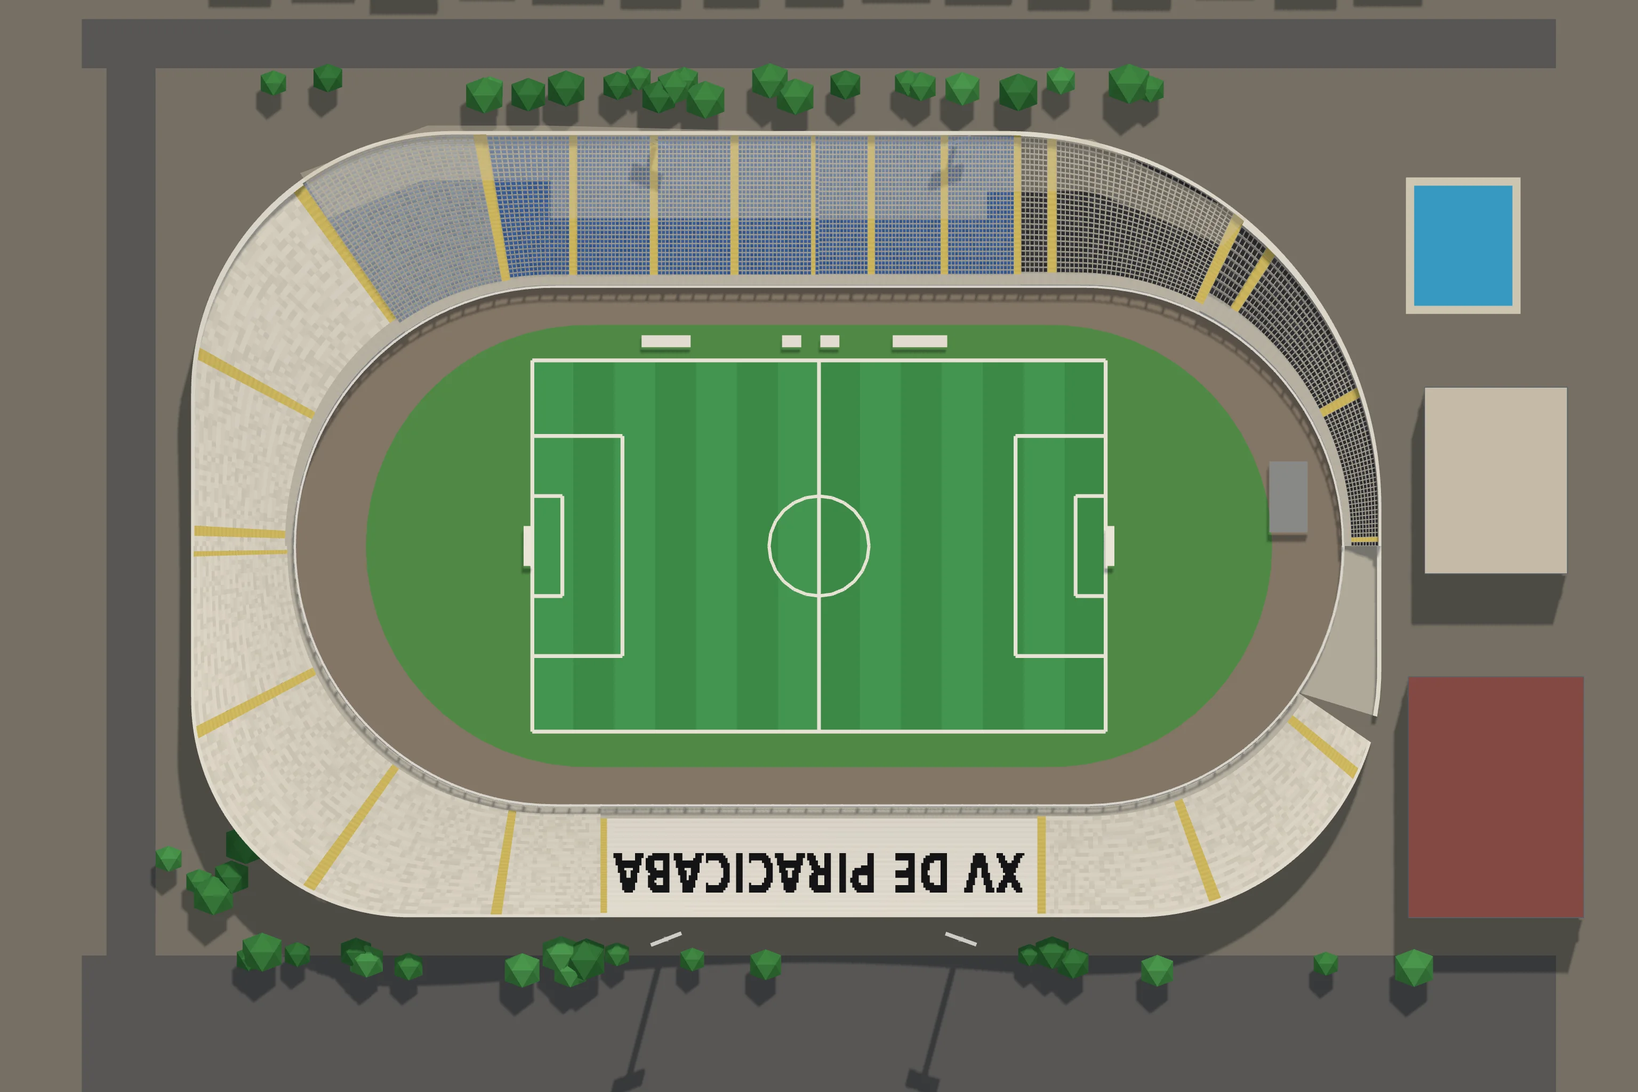
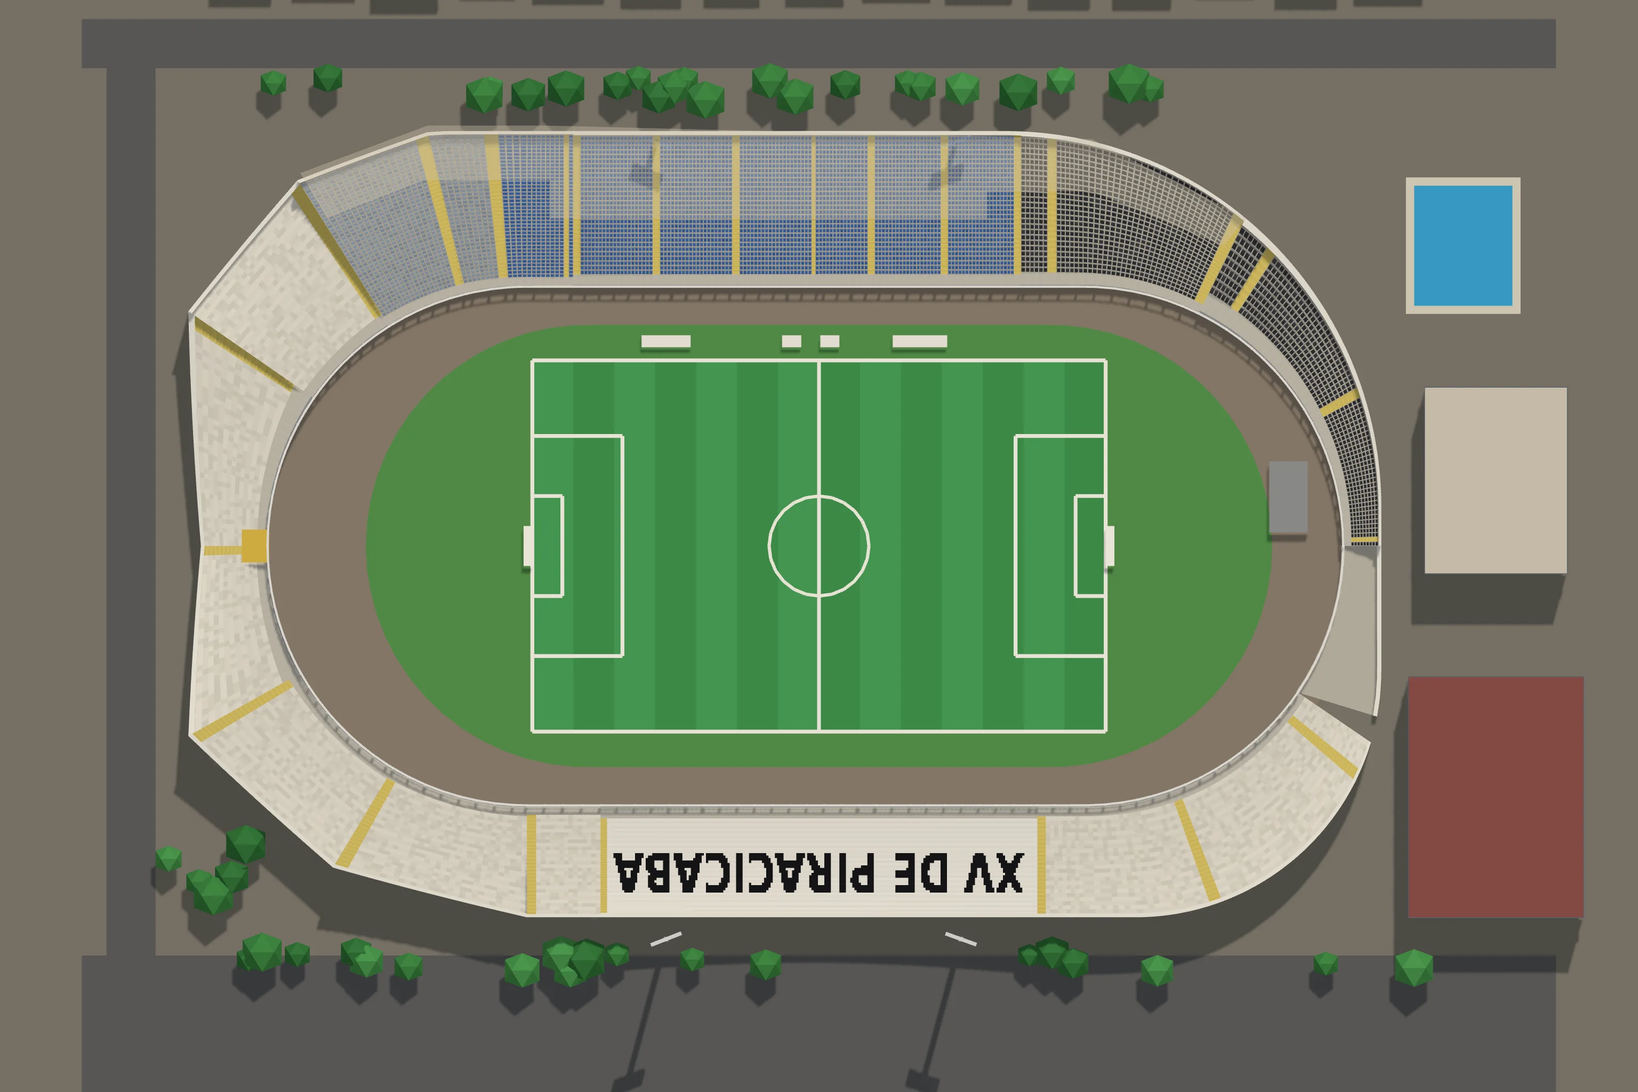
Barão de Serra Negra corrigido pelas fotos do dono: o muro de trás do gol sul reto, a arquibancada baixa no meio e alta nos dois cantos
Claude-Session: https://claude.ai/code/session_019hwwMAyyP7ZAvyq6wYTetr

Changed region(s): [[0.0938, 0.125, 0.5, 0.9062]]

diff --git a/cenario3d/dados/estadios_cenas.js b/cenario3d/dados/estadios_cenas.js
@@ -11444,8 +11444,8 @@ window.__ESTADIOS = {
    "visitante": 3
   },
   "foto": {
-   "imagem": "img/cenas/estadio_barao_de_serra_negra.webp?v=873eb81a",
-   "mascara": "384;384;384;384;384;384;384;384;384;384;384;384;384;384;384;384;384;384;384;384;384;384;384;384;384;384;384;384;384;384;384;102,137,145;94,155,135;90,165,129;87,172,125;84,178,122;82,183,119;79,189,116;78,192,114;76,196,112;74,201,109;72,205,107;71,207,106;70,210,104;68,214,102;67,216,101;66,219,99;65,221,98;64,224,96;63,226,95;62,228,94;61,231,92;60,233,91;59,235,90;58,237,89;58,238,88;57,240,87;56,242,86;56,243,85;55,245,84;54,247,83;54,248,82;53,250,81;53,250,81;52,252,80;52,253,79;51,108,66,81,78;51,68,146,42,77;50,65,154,38,77;50,61,162,35,76;49,59,168,33,75;49,57,172,31,75;49,55,176,30,74;48,54,180,29,73;48,52,184,27,73;48,50,188,26,72;48,49,190,25,72;47,48,194,24,71;47,47,196,23,71;47,45,200,22,70;47,44,202,21,70;46,44,204,21,69;46,43,206,20,69;46,42,208,20,68;46,41,210,19,68;46,40,212,19,67;46,39,214,18,67;46,38,216,17,67;46,37,218,17,66;46,36,220,16,66;46,35,222,15,66;46,35,222,16,65;46,34,224,15,65;46,33,226,14,65;46,33,226,15,64;46,32,228,14,64;46,31,230,13,64;46,31,230,13,64;46,30,232,13,63;46,30,232,13,63;46,29,234,12,63;46,29,234,12,63;46,28,236,12,62;46,28,236,12,62;46,27,238,11,62;46,27,238,11,62;46,26,240,10,62;46,26,240,10,62;46,26,240,10,62;46,25,242,10,61;46,25,242,10,61;46,25,242,10,61;46,24,244,9,61;46,24,244,9,61;46,24,244,9,61;46,24,244,9,61;46,23,246,8,61;46,23,246,8,61;46,23,246,8,61;46,23,246,8,61;46,23,246,8,61;46,23,246,8,61;46,23,246,8,61;46,23,246,8,61;46,22,248,7,61;46,22,248,7,61;46,22,248,7,61;46,22,248,7,61;46,22,248,7,61;46,22,248,7,61;46,22,248,7,61;46,22,248,7,61;46,23,246,8,61;46,23,246,8,61;46,23,246,8,61;46,23,246,8,61;46,23,246,8,61;46,23,246,8,61;46,23,246,8,61;46,23,246,8,61;46,24,244,9,61;46,24,244,9,61;46,24,244,9,61;46,24,244,9,61;46,25,242,10,61;46,25,242,10,61;46,25,242,10,61;46,26,240,11,61;46,26,240,11,61;46,26,240,11,61;46,27,238,12,61;46,27,238,12,61;46,28,236,13,61;46,28,236,13,61;46,29,234,14,61;46,29,234,14,61;46,30,232,15,61;46,30,232,15,61;46,31,230,16,61;46,31,230,16,61;46,32,228,17,61;46,33,226,18,61;46,33,226,18,61;46,34,224,19,61;46,35,222,20,61;46,35,222,20,61;46,36,220,20,62;46,37,218,21,62;46,38,216,22,62;46,39,214,23,62;46,40,212,24,62;46,41,210,24,63;46,42,208,25,63;46,43,206,26,63;47,43,204,27,63;47,44,202,27,64;47,45,200,28,64;47,47,196,30,64;48,47,194,30,65;48,49,190,32,65;48,50,188,32,66;49,51,184,34,66;49,53,180,35,67;49,55,176,37,67;50,56,172,38,68;50,58,168,40,68;51,60,162,42,69;51,64,154,46,69;52,67,146,49,70;52,107,66,88,71;53,260,71;54,258,72;54,257,73;55,255,74;56,254,74;56,253,75;57,251,76;58,249,77;59,247,78;60,245,79;61,243,80;62,241,81;63,238,83;64,236,84;66,232,86;67,230,87;69,226,89;70,224,90;72,220,92;74,215,95;76,211,97;79,205,100;82,199,103;86,190,108;384;384;384;384;384;384;384;384;384;384;384;384;384;384;384;384;384;384;384;384;384;384;384;384;384;384;384;384;384;384;384;384;384;384;384;384;384;384;384;384;384;384"
+   "imagem": "img/cenas/estadio_barao_de_serra_negra.webp?v=37885bc2",
+   "mascara": "384;384;384;384;384;384;384;384;384;384;384;384;384;384;384;384;384;384;384;384;384;384;384;384;384;384;384;384;384;384;384;102,137,145;94,155,135;90,165,129;87,172,125;84,178,122;82,183,119;79,189,116;78,192,114;76,196,112;74,201,109;72,205,107;71,207,106;68,212,104;66,216,102;63,220,101;61,224,99;58,228,98;56,232,96;53,236,95;51,239,94;48,244,92;46,247,91;47,247,90;48,247,89;50,246,88;52,245,87;54,244,86;56,243,85;56,244,84;55,246,83;54,248,82;53,250,81;52,251,81;52,252,80;51,254,79;50,109,66,81,78;49,64,152,42,77;48,60,161,38,77;48,57,168,35,76;47,55,174,33,75;46,54,178,31,75;45,52,183,30,74;44,51,187,29,73;44,50,190,27,73;43,49,194,26,72;42,48,197,25,72;41,48,200,24,71;40,47,203,23,71;40,46,206,22,70;39,46,208,21,70;38,46,210,21,69;38,44,213,20,69;40,41,215,20,68;44,36,217,19,68;45,34,219,19,67;45,33,221,18,67;45,33,222,17,67;45,32,224,17,66;45,31,226,16,66;45,30,228,15,66;46,28,229,16,65;46,27,231,15,65;46,27,232,14,65;46,26,233,15,64;46,25,235,14,64;46,25,236,13,64;46,24,237,13,64;46,24,238,13,63;46,23,239,13,63;46,23,240,12,63;46,22,241,12,63;46,22,242,12,62;46,21,243,12,62;46,21,244,11,62;46,20,245,11,62;46,20,246,10,62;46,20,246,10,62;46,19,247,10,62;46,19,248,10,61;47,18,248,10,61;47,17,249,10,61;47,17,250,9,61;47,17,250,9,61;47,17,250,9,61;47,16,251,9,61;47,16,252,8,61;47,16,252,8,61;47,16,252,8,61;47,16,252,8,61;47,15,253,8,61;47,15,253,8,61;47,15,253,8,61;47,15,253,8,61;48,14,254,7,61;48,14,254,7,61;48,14,254,7,61;48,14,254,7,61;48,14,254,7,61;48,14,254,7,61;48,14,254,7,61;48,14,254,7,61;47,15,253,8,61;47,15,253,8,61;47,15,253,8,61;47,15,253,8,61;47,16,252,8,61;47,16,252,8,61;47,16,252,8,61;47,16,252,8,61;47,16,251,9,61;47,17,250,9,61;47,17,250,9,61;47,17,250,9,61;46,18,249,10,61;46,19,248,10,61;46,19,248,10,61;46,19,247,11,61;46,20,246,11,61;46,20,246,11,61;46,20,245,12,61;46,21,244,12,61;46,21,243,13,61;46,22,242,13,61;46,22,241,14,61;46,23,240,14,61;46,23,239,15,61;46,24,238,15,61;46,24,237,16,61;46,25,236,16,61;45,26,235,17,61;45,27,233,18,61;45,28,232,18,61;45,28,231,19,61;44,30,229,20,61;40,35,228,20,61;39,37,226,20,62;40,37,224,21,62;41,37,222,22,62;42,36,221,23,62;43,36,219,24,62;44,36,217,24,63;45,36,215,25,63;46,36,213,26,63;47,37,210,27,63;48,37,208,27,64;49,37,206,28,64;50,37,203,30,64;51,38,200,30,65;52,38,197,32,65;53,39,194,32,66;54,40,190,34,66;55,40,187,35,67;57,40,183,37,67;58,42,178,38,68;59,43,174,40,68;60,45,168,42,69;61,47,161,46,69;62,51,152,49,70;63,96,66,88,71;64,249,71;65,247,72;66,245,73;67,243,74;65,245,74;63,246,75;61,247,76;60,247,77;63,243,78;67,238,79;70,234,80;73,230,81;77,224,83;81,219,84;84,214,86;88,209,87;92,203,89;95,199,90;99,193,92;100,189,95;99,188,97;98,186,100;97,184,103;96,180,108;384;384;384;384;384;384;384;384;384;384;384;384;384;384;384;384;384;384;384;384;384;384;384;384;384;384;384;384;384;384;384;384;384;384;384;384;384;384;384;384;384;384"
   },
   "cena": {
    "nome": "Barão de Serra Negra",
@@ -11460,7 +11460,7 @@ window.__ESTADIOS = {
      ]
     },
     "mandante2": {
-     "x": 546,
+     "x": 495,
      "y": 1024,
      "len": 130,
      "dir": [
@@ -11520,7 +11520,7 @@ window.__ESTADIOS = {
      "rot": "MANDANTE 2º ESCALÃO",
      "lado": "mandante",
      "entrada": "portao_mandante",
-     "x": 456,
+     "x": 439,
      "y": 1024
     },
     {
@@ -11647,28 +11647,28 @@ window.__ESTADIOS = {
      "id": "canto_2",
      "rot": "GRADE DO ESCANTEIO",
      "de": {
-      "x": 640,
-      "y": 746
+      "x": 658,
+      "y": 665
      },
      "ate": {
-      "x": 368,
-      "y": 661
+      "x": 381,
+      "y": 551
      },
-     "modulos": 10,
+     "modulos": 11,
      "espessura": 10
     },
     {
      "id": "canto_3",
      "rot": "GRADE DO ESCANTEIO",
      "de": {
-      "x": 640,
-      "y": 1302
+      "x": 658,
+      "y": 1383
      },
      "ate": {
-      "x": 368,
-      "y": 1387
+      "x": 452,
+      "y": 1468
      },
-     "modulos": 10,
+     "modulos": 8,
      "espessura": 10
     },
     {

diff --git a/cenario3d/planta.html b/cenario3d/planta.html
@@ -289,24 +289,24 @@ button:focus-visible, input:focus-visible { outline: 2px solid var(--selecao); o
 
 <script type="module">
 import * as THREE from 'https://cdn.jsdelivr.net/npm/three@0.160.0/build/three.module.min.js';
-import { planoDaCasa, montarCasa, juntarBlocos, lugarDoDecalque, placasDoLote, segmentosDoMuro, carrosDoEstacionamento, portaoDoEstacionamento } from './js/casas3d.js?v=2e119ea8b4';
-import { montarModelos } from './js/modelos3d.js?v=2e119ea8b4';
-import { moldeDaPeca, comTransformador } from './js/props3d.js?v=2e119ea8b4';
-import { ATLAS } from './js/modelos_atlas.js?v=2e119ea8b4';
-import { Construtor, sorteio } from './js/construtor3d.js?v=2e119ea8b4';
-import { gerarProposta, MAPAS, MAPA_DO_PORTE, RUA, LONGE_DO_ESTADIO_M, cisaoDaPraca, VAO_CIDADES_M, PRAIA_A_MAIS } from './js/proposta.js?v=2e119ea8b4';
-import { montarSede, nivelQueCabe } from './js/sede3d.js?v=2e119ea8b4';
-import { onibus as onibusDetalhe, juntar as juntarDetalhe } from './js/detalhe3d.js?v=2e119ea8b4';
-import { montarLoteDeVeraneio, plantaDoLote, festaNoMundo, noMundoDoLote, cenaDaFesta, detalheDaCasaDaFesta } from './js/veraneio3d.js?v=2e119ea8b4';
-import { montarCaravana, cenaDaCaravana } from './js/caravana3d.js?v=2e119ea8b4';
-import { montarEstacao, montarTunel, montarCarro, TREM } from './js/metro3d.js?v=2e119ea8b4';
-import { montarShopping, montarDelegacia, montarPraca, montarIgreja, montarEscola, montarHospital } from './js/equip3d.js?v=2e119ea8b4';
-import { montarEquipAntigo, TIPOS_ANTIGOS } from './js/equip_antigo3d.js?v=2e119ea8b4';
-import { PECAS_PRAIA, montarPecaDaPraia } from './js/praia3d.js?v=2e119ea8b4';
-import { ESPECIES_LP, FLORA_LP, montarArvoreLowpoly, montarAsDez, facesDaArvore, especieLowpolyDe } from './js/arvores_lowpoly.js?v=2e119ea8b4';
-import { plantarMato, montarMato, LONGE_M, DENSIDADE, LADRILHO_M } from './js/mato3d.js?v=2e119ea8b4';
-import { ESTADIOS_JOGO, montarEstadioJogo, glbDoEstadio, cortarEstadio, plantaDoEstadio, modeloDaLotacao, nomeDoLetreiro, nomeComAcento, marcaDoEstadio, BOCAS_DOS_PORTOES, BILHETERIAS_DA_RUA } from './js/estadios3d.js?v=2e119ea8b4';
-import { PECAS_AMBULANTES, montarAmbulante } from './js/ambulantes3d.js?v=2e119ea8b4';
+import { planoDaCasa, montarCasa, juntarBlocos, lugarDoDecalque, placasDoLote, segmentosDoMuro, carrosDoEstacionamento, portaoDoEstacionamento } from './js/casas3d.js?v=980e104183';
+import { montarModelos } from './js/modelos3d.js?v=980e104183';
+import { moldeDaPeca, comTransformador } from './js/props3d.js?v=980e104183';
+import { ATLAS } from './js/modelos_atlas.js?v=980e104183';
+import { Construtor, sorteio } from './js/construtor3d.js?v=980e104183';
+import { gerarProposta, MAPAS, MAPA_DO_PORTE, RUA, LONGE_DO_ESTADIO_M, cisaoDaPraca, VAO_CIDADES_M, PRAIA_A_MAIS } from './js/proposta.js?v=980e104183';
+import { montarSede, nivelQueCabe } from './js/sede3d.js?v=980e104183';
+import { onibus as onibusDetalhe, juntar as juntarDetalhe } from './js/detalhe3d.js?v=980e104183';
+import { montarLoteDeVeraneio, plantaDoLote, festaNoMundo, noMundoDoLote, cenaDaFesta, detalheDaCasaDaFesta } from './js/veraneio3d.js?v=980e104183';
+import { montarCaravana, cenaDaCaravana } from './js/caravana3d.js?v=980e104183';
+import { montarEstacao, montarTunel, montarCarro, TREM } from './js/metro3d.js?v=980e104183';
+import { montarShopping, montarDelegacia, montarPraca, montarIgreja, montarEscola, montarHospital } from './js/equip3d.js?v=980e104183';
+import { montarEquipAntigo, TIPOS_ANTIGOS } from './js/equip_antigo3d.js?v=980e104183';
+import { PECAS_PRAIA, montarPecaDaPraia } from './js/praia3d.js?v=980e104183';
+import { ESPECIES_LP, FLORA_LP, montarArvoreLowpoly, montarAsDez, facesDaArvore, especieLowpolyDe } from './js/arvores_lowpoly.js?v=980e104183';
+import { plantarMato, montarMato, LONGE_M, DENSIDADE, LADRILHO_M } from './js/mato3d.js?v=980e104183';
+import { ESTADIOS_JOGO, montarEstadioJogo, glbDoEstadio, cortarEstadio, plantaDoEstadio, modeloDaLotacao, nomeDoLetreiro, nomeComAcento, marcaDoEstadio, BOCAS_DOS_PORTOES, BILHETERIAS_DA_RUA } from './js/estadios3d.js?v=980e104183';
+import { PECAS_AMBULANTES, montarAmbulante } from './js/ambulantes3d.js?v=980e104183';
 
 const $ = id => document.getElementById(id);
 const aviso = $('aviso');
@@ -323,25 +323,25 @@ function carregarScript(src) {
 }
 window.TO = window.TO || { dados: {} };
 try {
-  await carregarScript('dados/torcidas.js?v=2e119ea8b4');
-  await carregarScript('dados/times.js?v=2e119ea8b4');
-  await carregarScript('dados/cena_estadio.js?v=2e119ea8b4');
-  await carregarScript('dados/cidades.js?v=2e119ea8b4');
-  await carregarScript('dados/estadios.js?v=2e119ea8b4');
-  await carregarScript('dados/escudos.js?v=2e119ea8b4');
+  await carregarScript('dados/torcidas.js?v=980e104183');
+  await carregarScript('dados/times.js?v=980e104183');
+  await carregarScript('dados/cena_estadio.js?v=980e104183');
+  await carregarScript('dados/cidades.js?v=980e104183');
+  await carregarScript('dados/estadios.js?v=980e104183');
+  await carregarScript('dados/escudos.js?v=980e104183');
   /* o manifesto das faixas de verdade (a arte do dono, 29/09/2026): a arquibancada estende a da torcida */
-  await carregarScript('dados/faixas.js?v=2e119ea8b4').catch(() => {});
+  await carregarScript('dados/faixas.js?v=980e104183').catch(() => {});
   /* O DOMÍNIO DOS BAIRROS (o dono, 30/09/2026): as sedes repetidas num
      bairro saem espalhadas (nos dados, na carga) e os bares ganham o
      bairro deles — o mesmo módulo do jogo (js/mundo/dominio.js) */
-  await carregarScript('js/dominio.js?v=2e119ea8b4').catch(() => {});
+  await carregarScript('js/dominio.js?v=980e104183').catch(() => {});
 } catch (e) {
   aviso.textContent = 'A planta da cidade não carregou (' + e.message + '). Recarregue a página.';
   throw e;
 }
 /* os PNG dos escudos, embutidos (o montar.sh gera): sem o arquivo, o
    caminho vai direto pra img/escudos/ */
-await carregarScript('dados/escudos_embutidos.js?v=2e119ea8b4').catch(() => {});
+await carregarScript('dados/escudos_embutidos.js?v=980e104183').catch(() => {});
 const P = TO.dados.plantaEstadio, K = P.CIDADE, M = P.METRO, CALC = K.CALC;
 /* o mapa da vez (o pequeno, o médio ou o grande, montado pra praça
    escolhida): quem monta é usarMapa, lá embaixo */

diff --git a/cenario3d/js/jogo2d.js b/cenario3d/js/jogo2d.js
@@ -17,7 +17,7 @@
    cartão da partida cai perto da hora da bola e nada do que conta o
    placar passa na frente dele.
    ========================================================= */
-import { CASCA } from './jogo_casca.js?v=2e119ea8b4';
+import { CASCA } from './jogo_casca.js?v=980e104183';
 
 const carregarScript = src => new Promise((ok, erro) => {
   const s = document.createElement('script');
@@ -31,17 +31,17 @@ async function montarJogo() {
   caixa.innerHTML = CASCA;
   while (caixa.firstChild) document.body.appendChild(caixa.firstChild);
   /* os escudos, as fotos das praças e as bandeiras embutidos (o `IMG()` do jogo procura aqui antes do caminho) */
-  await carregarScript('dados/imagens_jogo.js?v=2e119ea8b4').catch(() => {});
+  await carregarScript('dados/imagens_jogo.js?v=980e104183').catch(() => {});
   /* os estádios low-poly das cenas (ferramentas/estadios/assar.js): antes do jogo, que monta as cenas quando carrega */
-  await carregarScript('dados/estadios_cenas.js?v=2e119ea8b4').catch(() => {});
+  await carregarScript('dados/estadios_cenas.js?v=980e104183').catch(() => {});
   /* sem o rolo do feed: a tela entre os jogos é o portal */
   window.TO = window.TO || {};
   TO.semFeed = true;
-  await carregarScript('js/jogo.js?v=2e119ea8b4');
-  await carregarScript('js/portal.js?v=2e119ea8b4').catch(err => console.error('o portal não carregou:', err));
+  await carregarScript('js/jogo.js?v=980e104183');
+  await carregarScript('js/portal.js?v=980e104183').catch(err => console.error('o portal não carregou:', err));
   /* o boneco das cenas de imagem (os dois níveis afinados, em base64) */
-  if (!TO.dados.bonecoPertoGLB) await carregarScript('dados/boneco_glb.js?v=2e119ea8b4').catch(() => {});
-  await import('./bonecos3_global.js?v=2e119ea8b4').catch(err => console.error('o boneco das cenas não carregou:', err));
+  if (!TO.dados.bonecoPertoGLB) await carregarScript('dados/boneco_glb.js?v=980e104183').catch(() => {});
+  await import('./bonecos3_global.js?v=980e104183').catch(err => console.error('o boneco das cenas não carregou:', err));
   ligar();
 }
 

diff --git a/cenario3d/jogo.html b/cenario3d/jogo.html
@@ -9,16 +9,16 @@
 <link rel="preconnect" href="https://fonts.googleapis.com">
 <link rel="preconnect" href="https://fonts.gstatic.com" crossorigin>
 <link rel="stylesheet" href="https://fonts.googleapis.com/css2?family=Barlow+Semi+Condensed:wght@500;600;700&family=Barlow:wght@400;500;600&family=IBM+Plex+Mono:wght@400;500&display=swap">
-<link rel="stylesheet" href="css/jogo.css?v=2e119ea8b4">
-<link rel="stylesheet" href="css/jogo3d.css?v=2e119ea8b4">
-<link rel="stylesheet" href="css/portal.css?v=2e119ea8b4">
-<link rel="stylesheet" href="css/telas3d.css?v=2e119ea8b4">
+<link rel="stylesheet" href="css/jogo.css?v=980e104183">
+<link rel="stylesheet" href="css/jogo3d.css?v=980e104183">
+<link rel="stylesheet" href="css/portal.css?v=980e104183">
+<link rel="stylesheet" href="css/telas3d.css?v=980e104183">
 <style>
 [hidden] { display: none !important; }
 html, body { height: 100%; margin: 0; }
 </style>
 </head>
 <body class="jogo3d">
-<script type="module" src="js/jogo2d.js?v=2e119ea8b4"></script>
+<script type="module" src="js/jogo2d.js?v=980e104183"></script>
 </body>
 </html>

diff --git a/cenario3d/js/casas3d.js b/cenario3d/js/casas3d.js
@@ -60,10 +60,10 @@
    avançam (`rec`), e o letreiro, a pixação e a falha de reboco do
    bairro vão pro plano dessa parede, não pro da divisa.
    ========================================================= */
-import { Construtor, METRO, mureta, toldo, arSplit, sorteio } from './construtor3d.js?v=2e119ea8b4';
-import { ATLAS } from './modelos_atlas.js?v=2e119ea8b4';
+import { Construtor, METRO, mureta, toldo, arSplit, sorteio } from './construtor3d.js?v=980e104183';
+import { ATLAS } from './modelos_atlas.js?v=980e104183';
 /* as lojas do assalto (lojas3d.js): modelos de lote como os outros */
-import { TIPOS_LOJA, REC_LOJA, placaDaLoja } from './lojas3d.js?v=2e119ea8b4';
+import { TIPOS_LOJA, REC_LOJA, placaDaLoja } from './lojas3d.js?v=980e104183';
 
 /* o arquivo de cada folha, pro bairro montar o material dele */
 export const arquivoDaFolha = folha => ATLAS[folha].arquivo;

diff --git a/cenario3d/js/ambulantes3d.js b/cenario3d/js/ambulantes3d.js
@@ -27,8 +27,8 @@
    que a planta acha o lugar dela na calçada do estádio. `sol`: o meio e
    o raio da copa ([x, z, r]), que o mapa desenha de perto.
    ========================================================= */
-import { Construtor, noMundo, placasNoMundo, sorteio, esfera, unit } from './construtor3d.js?v=2e119ea8b4';
-import { Lugar, barra, tubo, cilindro, bloco, pano, toro, guardaSol, cadeiraPlastica, isopor, banqueta, CORES_SOL } from './praia3d.js?v=2e119ea8b4';
+import { Construtor, noMundo, placasNoMundo, sorteio, esfera, unit } from './construtor3d.js?v=980e104183';
+import { Lugar, barra, tubo, cilindro, bloco, pano, toro, guardaSol, cadeiraPlastica, isopor, banqueta, CORES_SOL } from './praia3d.js?v=980e104183';
 
 const AQUI = Lugar();
 const escolha = (rnd, lista) => lista[Math.floor(rnd() * lista.length) % lista.length];

diff --git a/cenario3d/js/praia3d.js b/cenario3d/js/praia3d.js
@@ -36,8 +36,8 @@
    cadeira e a mesa de plástico) servem também os ambulantes da porta do
    estádio (ambulantes3d.js), na mesma folha.
    ========================================================= */
-import { Construtor, METRO, lerp, sub, soma, esc, unit, pv, noMundo, placasNoMundo, sorteio, varrer, esfera } from './construtor3d.js?v=2e119ea8b4';
-import { montarArvoreLowpoly } from './arvores_lowpoly.js?v=2e119ea8b4';
+import { Construtor, METRO, lerp, sub, soma, esc, unit, pv, noMundo, placasNoMundo, sorteio, varrer, esfera } from './construtor3d.js?v=980e104183';
+import { montarArvoreLowpoly } from './arvores_lowpoly.js?v=980e104183';
 
 const ALTO = [0, 1, 0];
 const escolha = (rnd, lista) => lista[Math.floor(rnd() * lista.length) % lista.length];

diff --git a/cenario3d/js/modelos3d.js b/cenario3d/js/modelos3d.js
@@ -32,8 +32,8 @@
    requadro da janela, toldo, ar-condicionado. O resto é pintura.
    ========================================================= */
 import * as THREE from 'https://cdn.jsdelivr.net/npm/three@0.160.0/build/three.module.min.js';
-import { ATLAS } from './modelos_atlas.js?v=2e119ea8b4';
-import { Construtor, METRO, lerp, sub, soma, esc, pv, pe, unit, recuoPoligono, mureta, toldo, arSplit } from './construtor3d.js?v=2e119ea8b4';
+import { ATLAS } from './modelos_atlas.js?v=980e104183';
+import { Construtor, METRO, lerp, sub, soma, esc, pv, pe, unit, recuoPoligono, mureta, toldo, arSplit } from './construtor3d.js?v=980e104183';
 
 /* =======================================================
    1. A IGREJA MATRIZ

diff --git a/cenario3d/js/props3d.js b/cenario3d/js/props3d.js
@@ -26,8 +26,8 @@
    poste vira uma haste de longe; o resto, que é miúdo, some.
    ========================================================= */
 import * as THREE from 'https://cdn.jsdelivr.net/npm/three@0.160.0/build/three.module.min.js';
-import { ATLAS } from './modelos_atlas.js?v=2e119ea8b4';
-import { Construtor, METRO, lerp } from './construtor3d.js?v=2e119ea8b4';
+import { ATLAS } from './modelos_atlas.js?v=980e104183';
+import { Construtor, METRO, lerp } from './construtor3d.js?v=980e104183';
 
 /* as cores que o vértice dá pro que sai claro na folha */
 const COR_CESTO = ['#6aa33a', '#d2b53a', '#3f82ad', '#8b6a3c', '#b8452f'];

diff --git a/cenario3d/js/mato3d.js b/cenario3d/js/mato3d.js
@@ -19,8 +19,8 @@
 
    Tudo em metros; `noMundo` converte. A mesma semente dá o mesmo mato.
    ========================================================= */
-import { METRO, noMundo, sorteio } from './construtor3d.js?v=2e119ea8b4';
-import { facesDaArvore, especieLowpolyDe } from './arvores_lowpoly.js?v=2e119ea8b4';
+import { METRO, noMundo, sorteio } from './construtor3d.js?v=980e104183';
+import { facesDaArvore, especieLowpolyDe } from './arvores_lowpoly.js?v=980e104183';
 
 /* a área de chão de cada árvore (m²), por lugar */
 export const DENSIDADE = { mata: 70, cerrado: 200, caatinga: 150, sul: 90, praia: 120, cidade: 250 };

diff --git a/cenario3d/js/bonecos3_global.js b/cenario3d/js/bonecos3_global.js
@@ -14,7 +14,7 @@
    DOMContentLoaded: quem usa (a ponte, numa cena aberta pelo jogador)
    chega muito depois.
    ========================================================= */
-import { montar, desenharDeCima, desenharVitrine, limparDeCima, fotoDoTrofeu, fotoDaBriga, fotoDaCena, perdeu, bonecos } from './bonecos3_cena.js?v=2e119ea8b4';
+import { montar, desenharDeCima, desenharVitrine, limparDeCima, fotoDoTrofeu, fotoDaBriga, fotoDaCena, perdeu, bonecos } from './bonecos3_cena.js?v=980e104183';
 
 window.TO = window.TO || {};
 TO.diaJogo = TO.diaJogo || {};

diff --git a/cenario3d/js/bonecos3_cena.js b/cenario3d/js/bonecos3_cena.js
@@ -103,7 +103,7 @@
       numa fase sorteada (quem sai junto não sai no mesmo pé).
    ========================================================= */
 import * as THREE from 'https://cdn.jsdelivr.net/npm/three@0.160.0/build/three.module.min.js';
-import { GLTFLoader, SkeletonUtils } from './GLTFLoader.js?v=2e119ea8b4';
+import { GLTFLoader, SkeletonUtils } from './GLTFLoader.js?v=980e104183';
 
 /* onde o modelo mora, quando não vem embutido em base64: o detalhado
    (o do Blender) e os dois níveis afinados dele (ferramentas/afinar_boneco.mjs) */
